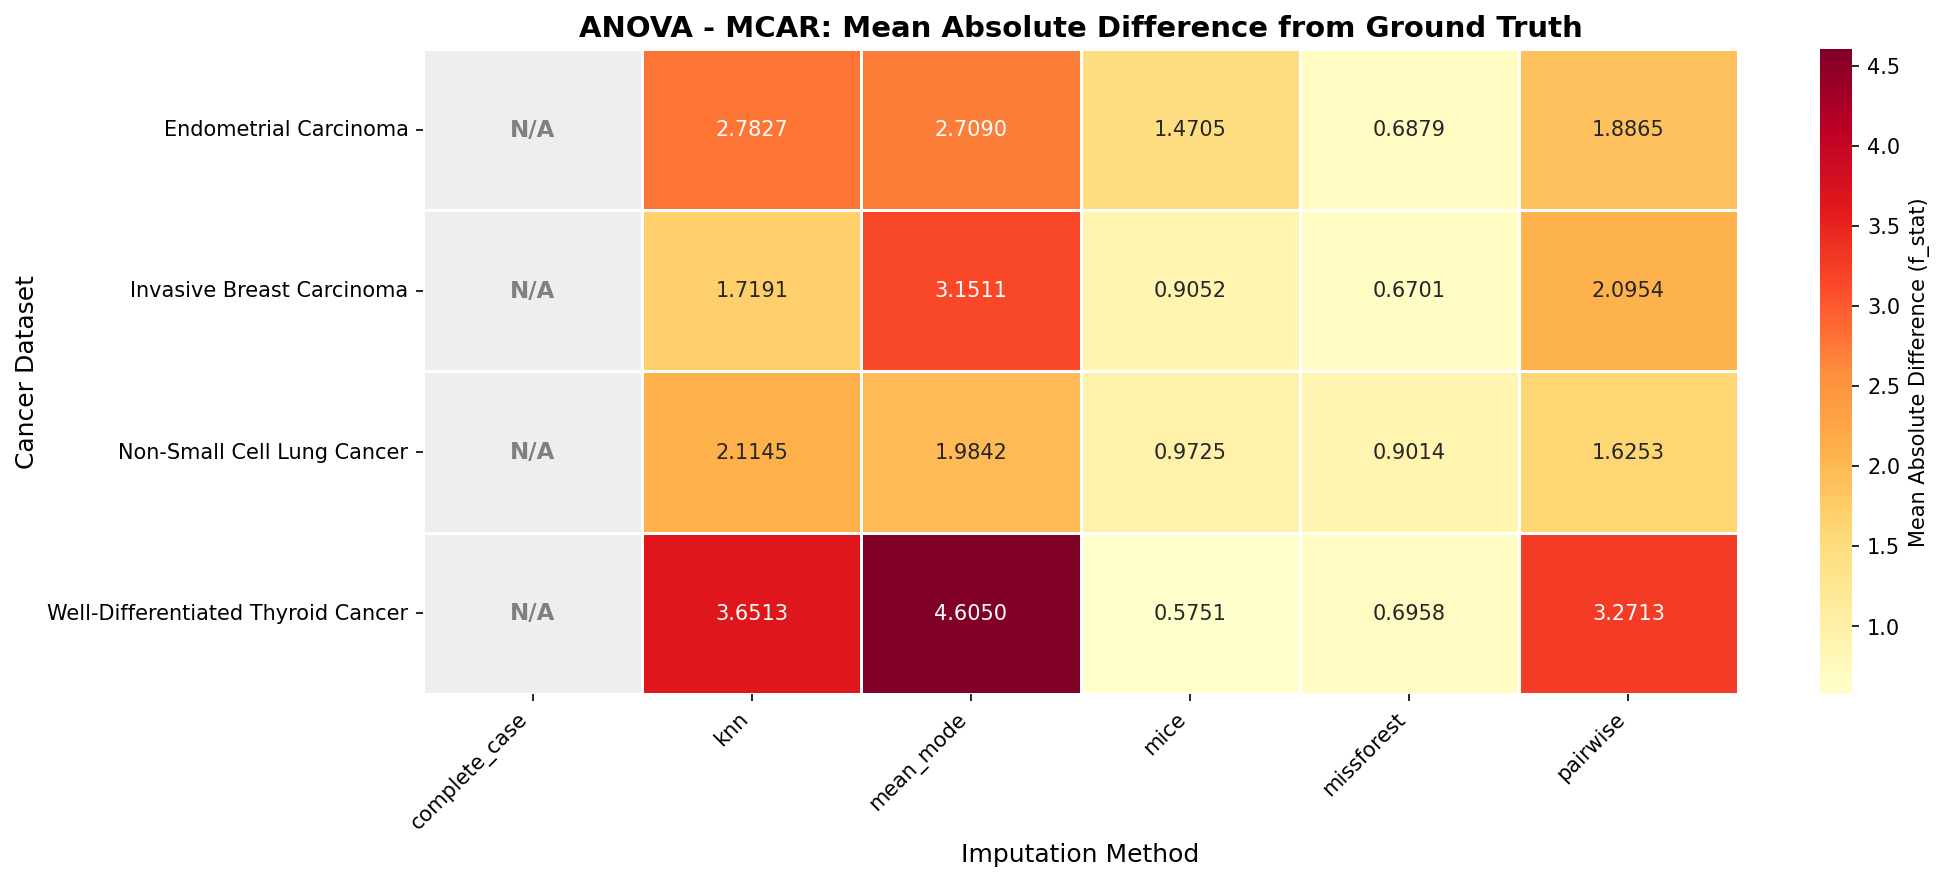
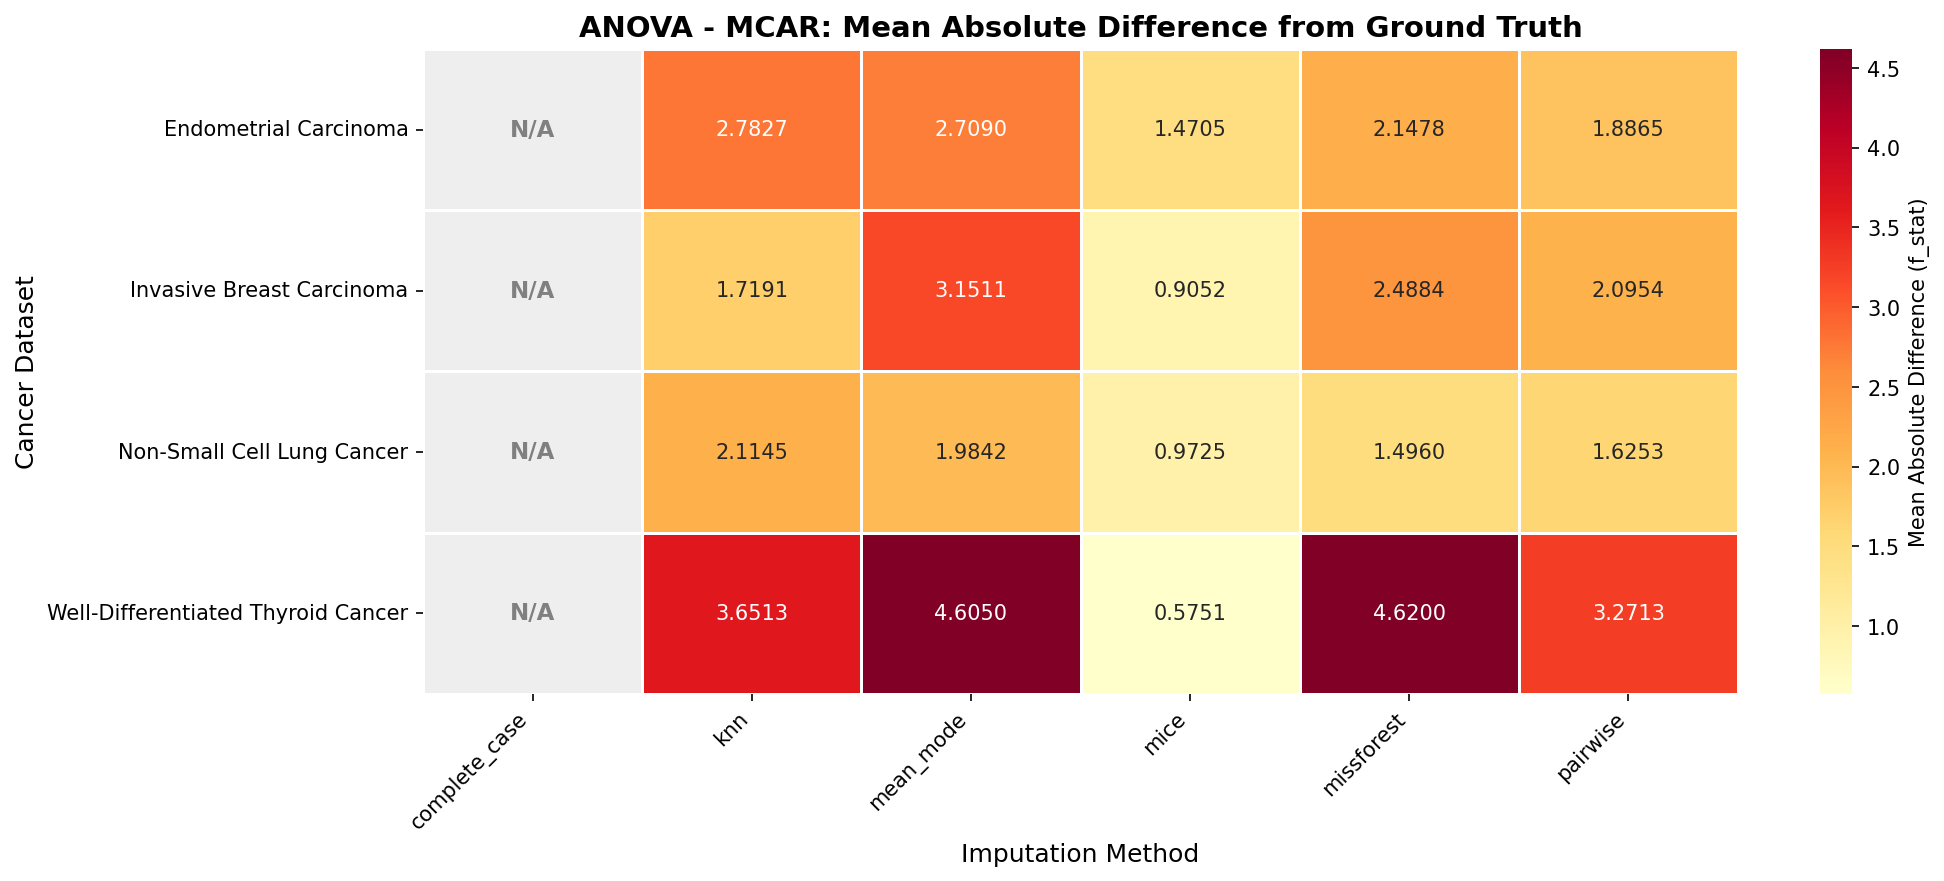
commit

diff --git a/imputation/methods.py b/imputation/methods.py
@@ -8,8 +8,9 @@ import pandas as pd
 from sklearn.impute import SimpleImputer, KNNImputer
 from sklearn.experimental import enable_iterative_imputer
 from sklearn.impute import IterativeImputer
-from sklearn.ensemble import RandomForestRegressor
 from sklearn.preprocessing import LabelEncoder
+from missforest import MissForest
+from lightgbm import LGBMClassifier, LGBMRegressor
 from analysis.tests import split_columns
 from config import KNN_K, MICE_ITER, RF_TREES, SEED
 
@@ -100,22 +101,42 @@ def mice_impute(df, max_iter=MICE_ITER):
     df_imputed = _decode_categoricals(df_imputed, cat_cols, encoders)
     return df_imputed
 
-# MissForest imputation using IterativeImputer with RandomForestRegressor.
+# MissForest imputation using the dedicated MissForest package
+# (https://pypi.org/project/MissForest/). Categorical columns are label-encoded
+# to integer codes and named via `categorical=`, so the package fits a
+# classifier (LGBMClassifier) on them and a regressor (LGBMRegressor) on the
+# numeric columns — a genuine mixed MissForest model rather than regression with
+# rounding. RF_TREES maps to each learner's number of trees (n_estimators) and
+# MICE_ITER to the number of imputation iterations (max_iter).
 def missforest_impute(df, n_estimators=RF_TREES, max_iter=MICE_ITER):
     df_imputed         = df.copy()
     num_cols, cat_cols = split_columns(df)
 
+    # The package needs numeric input and identifies categorical targets by name,
+    # so encode categoricals to integer codes (NaNs preserved) first.
     df_imputed, encoders = _encode_categoricals(df_imputed, cat_cols)
 
-    imputer    = IterativeImputer(
-        estimator=RandomForestRegressor(n_estimators=n_estimators, random_state=SEED),
+    # LightGBM rejects feature names containing special JSON characters (which
+    # the clinical column names contain), so temporarily rename columns to safe
+    # placeholders and restore the originals afterwards.
+    safe_names = {col: f"f{i}" for i, col in enumerate(df_imputed.columns)}
+    orig_names = {v: k for k, v in safe_names.items()}
+    df_imputed = df_imputed.rename(columns=safe_names)
+    cat_safe   = [safe_names[c] for c in cat_cols]
+
+    imputer = MissForest(
+        clf=LGBMClassifier(n_estimators=n_estimators, random_state=SEED, verbosity=-1),
+        rgr=LGBMRegressor(n_estimators=n_estimators, random_state=SEED, verbosity=-1),
+        categorical=cat_safe if cat_safe else None,
         max_iter=max_iter,
-        random_state=SEED
+        verbose=0,
     )
-    df_imputed = pd.DataFrame(
-        imputer.fit_transform(df_imputed),
-        columns=df_imputed.columns
-    )
+    df_imputed = imputer.fit_transform(df_imputed)
+    df_imputed = df_imputed.rename(columns=orig_names)
+
+    # The package reorders columns internally; restore the original row and
+    # column order so downstream alignment stays correct.
+    df_imputed = df_imputed.reindex(index=df.index, columns=df.columns)
 
     for col in num_cols:
         df_imputed[col] = pd.to_numeric(df_imputed[col], errors="coerce")

diff --git a/main.py b/main.py
@@ -4,11 +4,11 @@
 # Change settings in config.py — don't edit here.
 # ============================================================
 
-import pickle
 import os
+import glob
 import pandas as pd
 
-from config import SELECTED_DATASETS, MISSING_RATES, RESULTS_DIR
+from config import SELECTED_DATASETS, MISSING_RATES, PLOTS_DIR
 from data.loading import load_data
 from preprocessing.cleaning import clean_datasets
 from preprocessing.coercion import coerce_types
@@ -26,8 +26,6 @@ from visualization.plots import (
     plot_degradation_line,
     plot_recovery_bar
 )
-
-os.makedirs(RESULTS_DIR, exist_ok=True)
 
 
 def run_pipeline_for_rate(dfs_cleaned, missing_rate):
@@ -91,11 +89,6 @@ def main():
             "all_stats":        all_stats
         }
 
-    # save to disk so you don't have to rerun
-    with open(f"{RESULTS_DIR}/all_rates_results.pkl", "wb") as f:
-        pickle.dump(all_rates_results, f)
-    print(f"\nResults saved to {RESULTS_DIR}/all_rates_results.pkl")
-
     # ── 4. Evaluation for primary rate (0.1) ─────────────────
     print("\n[4] Running evaluation for primary rate (0.1)...")
     primary          = all_rates_results[0.1]
@@ -108,7 +101,13 @@ def main():
     summary_df  = build_summary_df(differences)
 
     # ── 5. Plots ─────────────────────────────────────────────
-    print("\n[7] Generating plots...")
+    print("\n[5] Generating plots...")
+
+    # Start from a clean plots folder so each run overwrites the previous
+    # figures and stale plots don't accumulate across runs.
+    os.makedirs(PLOTS_DIR, exist_ok=True)
+    for old_plot in glob.glob(os.path.join(PLOTS_DIR, "*.png")):
+        os.remove(old_plot)
 
     # all_rates_stats spans every missing rate — used by the aggregated rank
     # plot and the degradation line plots.
